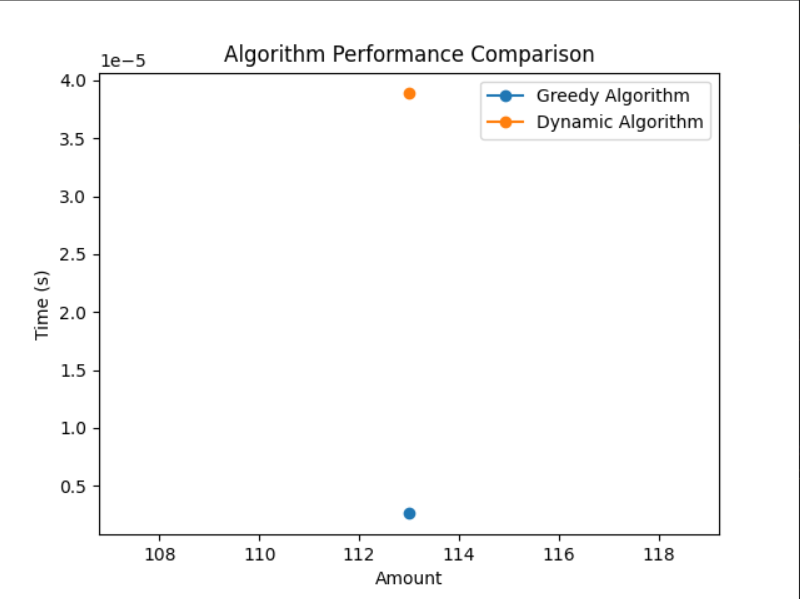
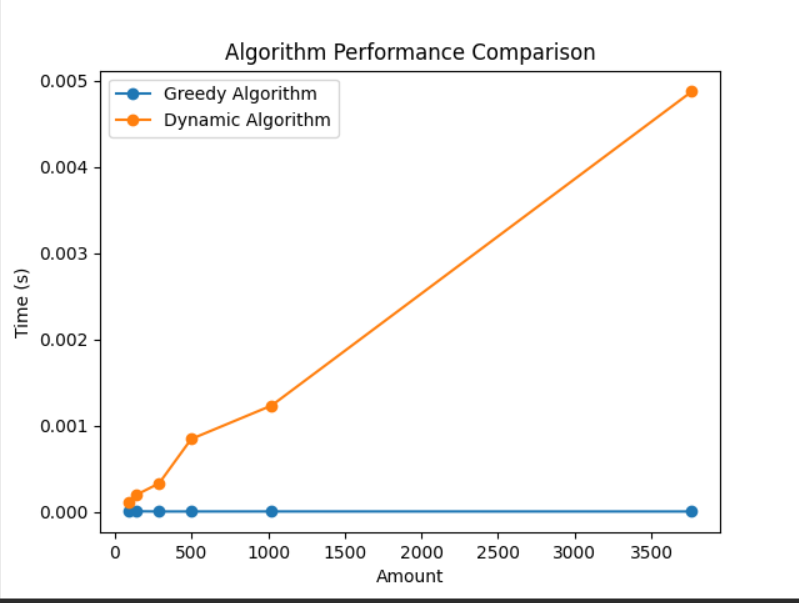
fix imports and data print

diff --git a/src/bag/_main_.py b/src/bag/_main_.py
@@ -1,42 +1,50 @@
-import time
 from tabulate import tabulate
 import matplotlib.pyplot as plt
 from greedy_change_maker import GreedyChangeMaker
 from dynamic_change_maker import DynamicChangeMaker
+import sys
+import importlib.util
 
-
-def measure_time(func, *args):
-    start_time = time.time()
-    result = func(*args)
-    end_time = time.time()
-    return result, end_time - start_time
+module_path = "src/helper/time_measurer"
+if module_path not in sys.path:
+    sys.path.append(module_path)
+time_measurer_module = importlib.import_module("time_measurer")
+TimeMeasurer = time_measurer_module.TimeMeasurer
 
 
 def main(denominations, test_amounts):
     greedy_maker = GreedyChangeMaker(denominations)
     dynamic_maker = DynamicChangeMaker(denominations)
 
+    measurer = TimeMeasurer()
+
     greedy_times = []
     dynamic_times = []
 
     results = []
+    algorithm_results = []
 
     for amount in test_amounts:
-        greedy_result, greedy_time = measure_time(greedy_maker.find_coins, amount)
-        dynamic_result, dynamic_time = measure_time(dynamic_maker.find_coins, amount)
+        greedy_result, greedy_time = measurer.measure_time(
+            greedy_maker.find_coins, amount
+        )
+        dynamic_result, dynamic_time = measurer.measure_time(
+            dynamic_maker.find_coins, amount
+        )
 
         greedy_times.append(greedy_time)
         dynamic_times.append(dynamic_time)
 
         results.append([amount, greedy_time, dynamic_time])
+        algorithm_results.append([amount, greedy_result, dynamic_result])
 
-        print(
-            f"Amount: {amount}, Greedy Result: {greedy_result}, Dynamic Result: {dynamic_result}"
-        )
+    result_headers = ["Amount", "Greedy Result", "Dynamic Result"]
+    result_table = tabulate(algorithm_results, headers=result_headers, tablefmt="pipe")
+    print(result_table + "\n")
 
-    headers = ["Amount", "Greedy Algorithm Time (s)", "Dynamic Algorithm Time (s)"]
-    table = tabulate(results, headers=headers, tablefmt="pipe")
-    print(f"{table}\n")
+    time_headers = ["Amount", "Greedy Algorithm Time (s)", "Dynamic Algorithm Time (s)"]
+    time_table = tabulate(results, headers=time_headers, tablefmt="pipe")
+    print(time_table + "\n")
 
     plt.plot(test_amounts, greedy_times, label="Greedy Algorithm", marker="o")
     plt.plot(test_amounts, dynamic_times, label="Dynamic Algorithm", marker="o")
@@ -48,10 +56,6 @@ def main(denominations, test_amounts):
 
 
 if __name__ == "__main__":
-    denominations = [50, 25, 10, 5, 2, 1]
-    test_amounts = [113]
-    main(denominations, test_amounts)
-
     denominations = [50, 25, 10, 5, 2, 1]
     test_amounts = [87, 143, 289, 498, 1023, 3764]
     main(denominations, test_amounts)

diff --git a/src/sort/_main_.py b/src/sort/_main_.py
@@ -1,8 +1,8 @@
-import timeit
 import random
 import matplotlib.pyplot as plt
 import sys
 import importlib.util
+from tabulate import tabulate
 
 module_path = "src/helper/time_measurer"
 if module_path not in sys.path:
@@ -82,16 +82,24 @@ class MainProgram:
         self.results = {alg: [] for alg in self.sorter.algorithms}
 
     def run(self):
+        all_results = []
+
         for size in self.data_sizes:
-            print(f"\nData Size: {size}")
             data = generate_random_data(size)
+            row = [size]
+
             for title in self.sorter.algorithms:
-                start_time = timeit.default_timer()
-                self.sorter.perform_sorting(title, data)
-                execution_time = timeit.default_timer() - start_time
+                _, execution_time = self.measurer.measure_time(
+                    self.sorter.perform_sorting, title, data
+                )
 
                 self.results[title].append(execution_time)
-                print(f"{title}: {execution_time} seconds")
+                row.append(execution_time)
+
+            all_results.append(row)
+
+        headers = ["Data Size"] + list(self.sorter.algorithms.keys())
+        print(tabulate(all_results, headers=headers, tablefmt="pipe"))
 
         ResultPlotter.plot_results(self.data_sizes, self.results)
 

diff --git a/README.md b/README.md
@@ -32,54 +32,33 @@ Only Fake Pattern.
 
 # SORT ALGORITM
 
-Data Size: 100
-Merge Sort: 7.074797758832574e-05 seconds
-Insertion Sort: 7.066002581268549e-06 seconds
-TimSort: 1.8739956431090832e-06 seconds
+| Data Size |  Merge Sort | Insertion Sort |     TimSort |
+| --------: | ----------: | -------------: | ----------: |
+|       100 |  6.8939e-05 |    6.96897e-06 | 1.91102e-06 |
+|       500 | 0.000376264 |     2.5464e-05 | 1.71701e-06 |
+|      1000 | 0.000791304 |     4.4269e-05 | 3.01696e-06 |
+|      3000 |  0.00277844 |    0.000127299 | 7.24697e-06 |
 
-Data Size: 500
-Merge Sort: 0.00035881303483620286 seconds
-Insertion Sort: 2.6653986424207687e-05 seconds
-TimSort: 1.8069986253976822e-06 seconds
-
-Data Size: 1000
-Merge Sort: 0.0007893230067566037 seconds
-Insertion Sort: 4.7174980863928795e-05 seconds
-TimSort: 3.0520022846758366e-06 seconds
-
-Data Size: 3000
-Merge Sort: 0.0027180559700354934 seconds
-Insertion Sort: 0.0001345659838989377 seconds
-TimSort: 7.612979970872402e-06 seconds
 ![Alt text](src/assets/images/image-6.png)
 
 # BAG ALGORITM
 
-Amount: 113, Greedy Result: {50: 2, 10: 1, 2: 1, 1: 1}, Dynamic Result: {50: 2, 10: 1, 2: 1, 1: 1}
+| Amount | Greedy Result                           | Dynamic Result                          |
+| -----: | :-------------------------------------- | :-------------------------------------- |
+|     87 | {50: 1, 25: 1, 10: 1, 2: 1}             | {50: 1, 25: 1, 10: 1, 2: 1}             |
+|    143 | {50: 2, 25: 1, 10: 1, 5: 1, 2: 1, 1: 1} | {50: 2, 25: 1, 10: 1, 5: 1, 2: 1, 1: 1} |
+|    289 | {50: 5, 25: 1, 10: 1, 2: 2}             | {50: 5, 25: 1, 10: 1, 2: 2}             |
+|    498 | {50: 9, 25: 1, 10: 2, 2: 1, 1: 1}       | {50: 9, 25: 1, 10: 2, 2: 1, 1: 1}       |
+|   1023 | {50: 20, 10: 2, 2: 1, 1: 1}             | {50: 20, 10: 2, 2: 1, 1: 1}             |
+|   3764 | {50: 75, 10: 1, 2: 2}                   | {50: 75, 10: 1, 2: 2}                   |
 
 | Amount | Greedy Algorithm Time (s) | Dynamic Algorithm Time (s) |
 | -----: | ------------------------: | -------------------------: |
-|    113 |                2.6226e-06 |                3.88622e-05 |
+|     87 |                1.4319e-05 |                0.000154262 |
+|    143 |               7.53795e-06 |                 0.00026267 |
+|    289 |               4.42803e-06 |                0.000485113 |
+|    498 |               6.27298e-06 |                0.000905827 |
+|   1023 |               5.67699e-06 |                 0.00198157 |
+|   3764 |               5.16797e-06 |                 0.00854144 |
 
-Amount: 87, Greedy Result: {50: 1, 25: 1, 10: 1, 2: 1}, Dynamic Result: {50: 1, 25: 1, 10: 1, 2: 1}
-
-Amount: 143, Greedy Result: {50: 2, 25: 1, 10: 1, 5: 1, 2: 1, 1: 1}, Dynamic Result: {50: 2, 25: 1, 10: 1, 5: 1, 2: 1, 1: 1}
-
-Amount: 289, Greedy Result: {50: 5, 25: 1, 10: 1, 2: 2}, Dynamic Result: {50: 5, 25: 1, 10: 1, 2: 2}
-
-Amount: 498, Greedy Result: {50: 9, 25: 1, 10: 2, 2: 1, 1: 1}, Dynamic Result: {50: 9, 25: 1, 10: 2, 2: 1, 1: 1}
-
-Amount: 1023, Greedy Result: {50: 20, 10: 2, 2: 1, 1: 1}, Dynamic Result: {50: 20, 10: 2, 2: 1, 1: 1}
-
-Amount: 3764, Greedy Result: {50: 75, 10: 1, 2: 2}, Dynamic Result: {50: 75, 10: 1, 2: 2}
-
-| Amount | Greedy Algorithm Time (s) | Dynamic Algorithm Time (s) |
-| -----: | ------------------------: | -------------------------: |
-|     87 |               1.33514e-05 |                0.000127077 |
-|    143 |               7.39098e-06 |                0.000248432 |
-|    289 |               4.29153e-06 |                0.000453949 |
-|    498 |               4.76837e-06 |                0.000732183 |
-|   1023 |               2.86102e-06 |                 0.00156784 |
-|   3764 |               3.33786e-06 |                 0.00511575 |
-
-![Alt text](src/assets/images/image-7.png)![Alt text](src/assets/images/image-8.png)
+![Alt text](src/assets/images/image-7.png)
